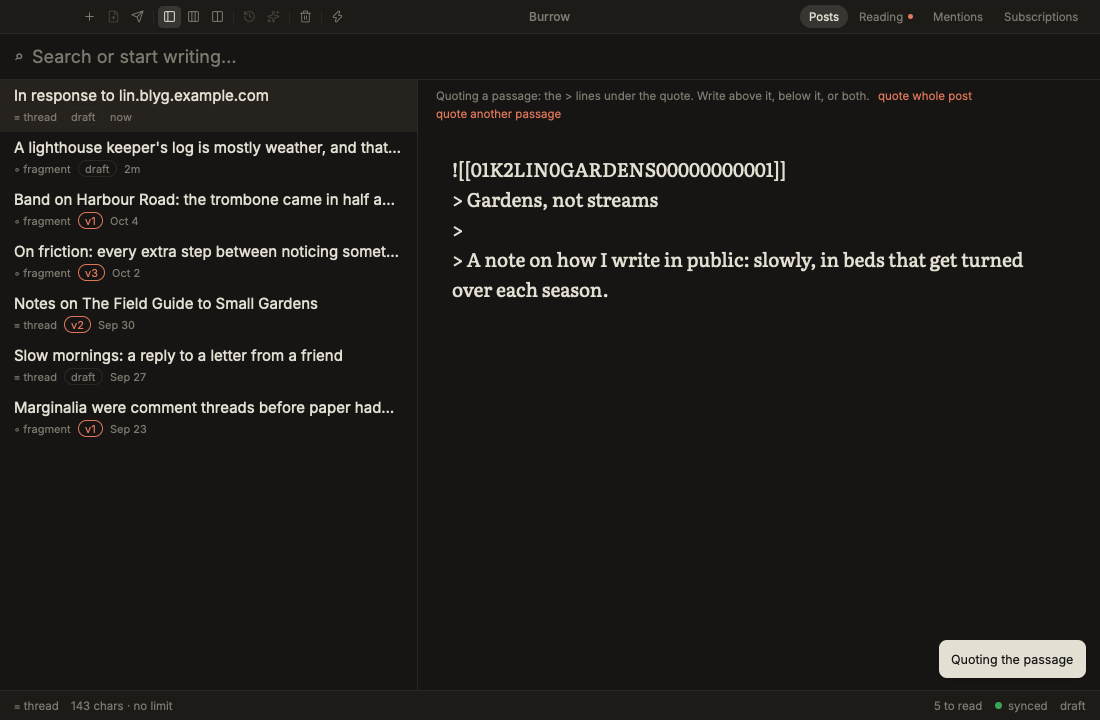
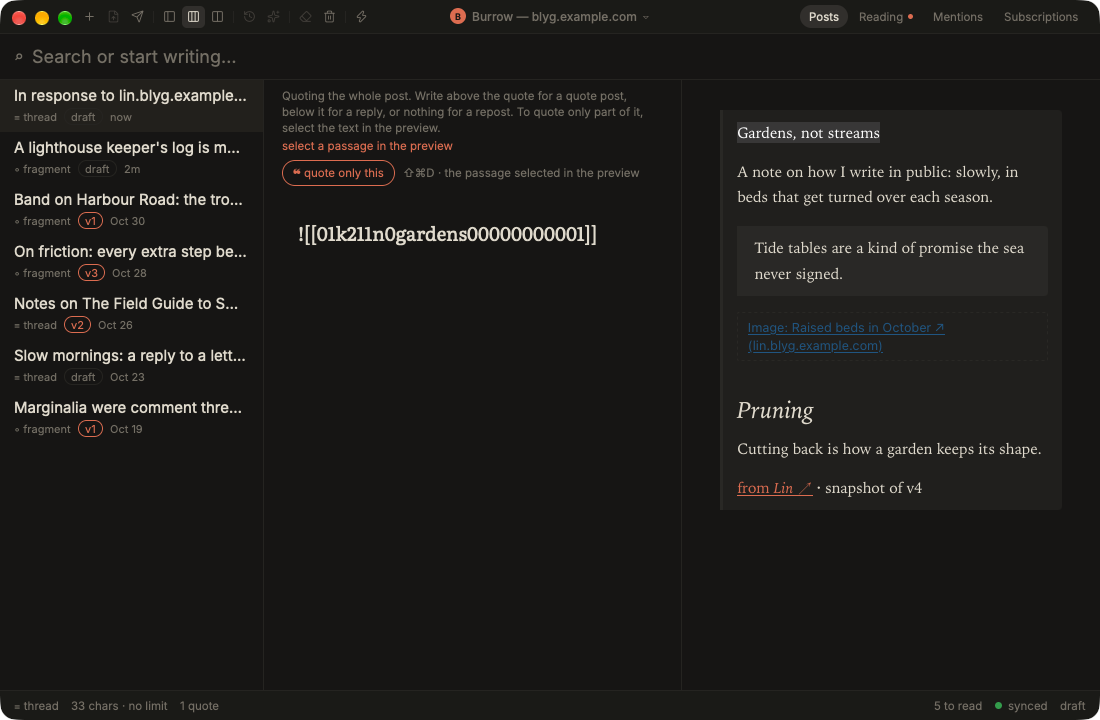
Docs: retake the stub passage and three-pane Reader screenshots

diff --git a/site/src/reading.md b/site/src/reading.md
@@ -163,6 +163,8 @@ The selected post shows its actions. Each says what it makes:
   post** goes back. A quote inside the quote, or a preview that hasn't
   caught up with your typing, offers nothing.
 
+  ![Choosing a passage in the stub's preview](screenshots/stub-passage.png)
+
 - **AI reply · new stub**: the same, with a first draft from AI.
 - **Link post · new fragment**: a fragment that links to the post (`[[id]]`)
   without responding to it.

diff --git a/CHANGELOG.md b/CHANGELOG.md
@@ -15,6 +15,10 @@ teaches something new in the tour, set the newest entry's `version` in
 
 ## [Unreleased]
 
+### Fixed
+
+- The check for a studio API contract Burrow doesn't speak refreshes an expired sign-in like any other request, and a sign-in the blyg refuses now stops the check instead of passing it.
+
 ## [0.14.0] - 2026-11-01
 
 ### Added
